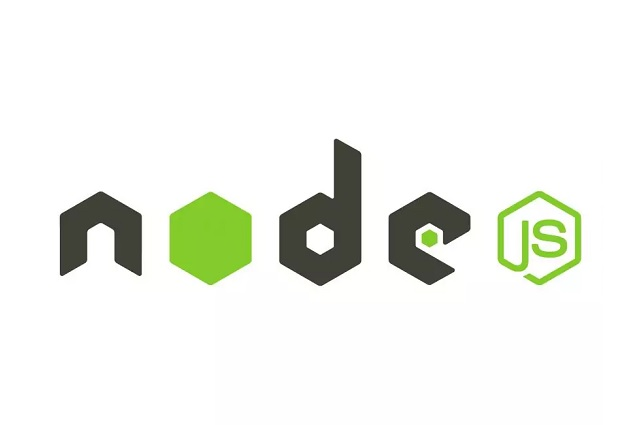
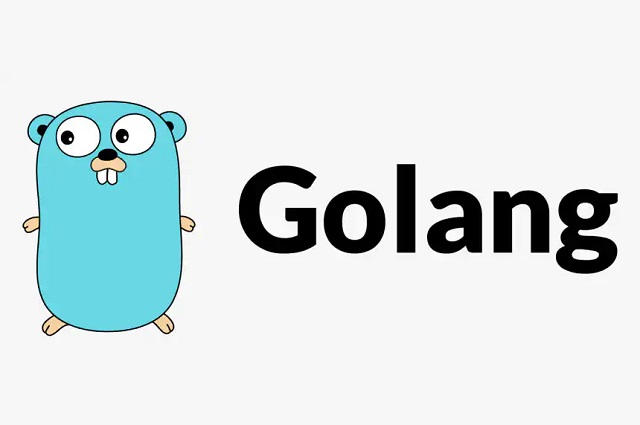
Goland project
Switched out nodejs project for golang project in spotlight

Changed region(s): [[0.0312, 0.2141, 0.9688, 0.7953]]

diff --git a/index.html b/index.html
@@ -175,7 +175,7 @@
 											<h3 class="portfolio-item-title">
 												<a href="https://github.com/jonathananders99/MySQL-Videogame-Map-Database" class="portfolio-link">MySQL Forge Database</a>
 											</h3>
-											<p>Project is a copy of a portion of a database built for a gaming group to track maps and forgers, utilizing various relationships and allowing for multiple verifiers and forgers per map</p>
+											<p>Project is a copy of a portion of a database I built for a gaming group to track maps and forgers, utilizing various relationships and allowing for multiple verifiers and forgers per map.</p>
 										</div>
 									</div>
 								</div>
@@ -184,9 +184,9 @@
 										<img src="images/portfolio-img7.jpg" class="fluid-img" alt="portfolio img">
 										<div class="portfolio-overlay">
 											<h3 class="portfolio-item-title">
-												<a href="https://github.com/jonathananders99/NodeJS-Discord-Bot" class="portfolio-link">NodeJS Discord Bot</a>
+												<a href="https://github.com/jonathananders99/GoLang-To-Do-List-App" class="portfolio-link">GoLang To-Do List</a>
 											</h3>
-											<p>The project is a NodeJS based discord bot built with a friend to automate member management and communication between a GAS database and discord using webhooks and commands.</p>
+											<p>Project uses GoLang as a backend, ReactJS as a frontend, and MongoDB to store the data. It's an application to simulate a basic to-do list.</p>
 										</div>
 									</div>
 								</div>
@@ -250,13 +250,9 @@
 							Linux
 						</div>
 						<div class="skills-grid-item">
-							MacOS
+							NodeJS
 						</div>
 					  </div>
-					<!-- <p>Python			Virtual Box</p>
-					<p>Teradata			GitHub</p>
-					<p>SAFe				MS Office</p>
-					<p>Linux			MacOS</p> -->
 				</div>
 			</div>
 		</div>
